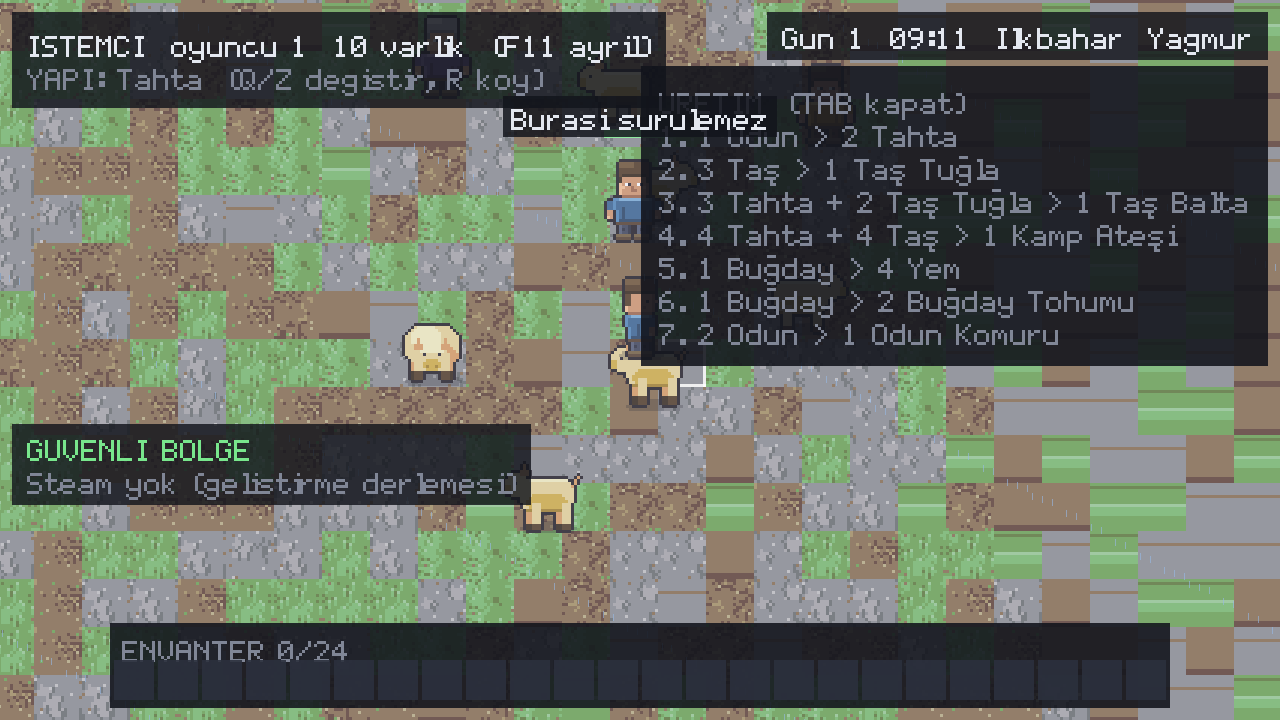
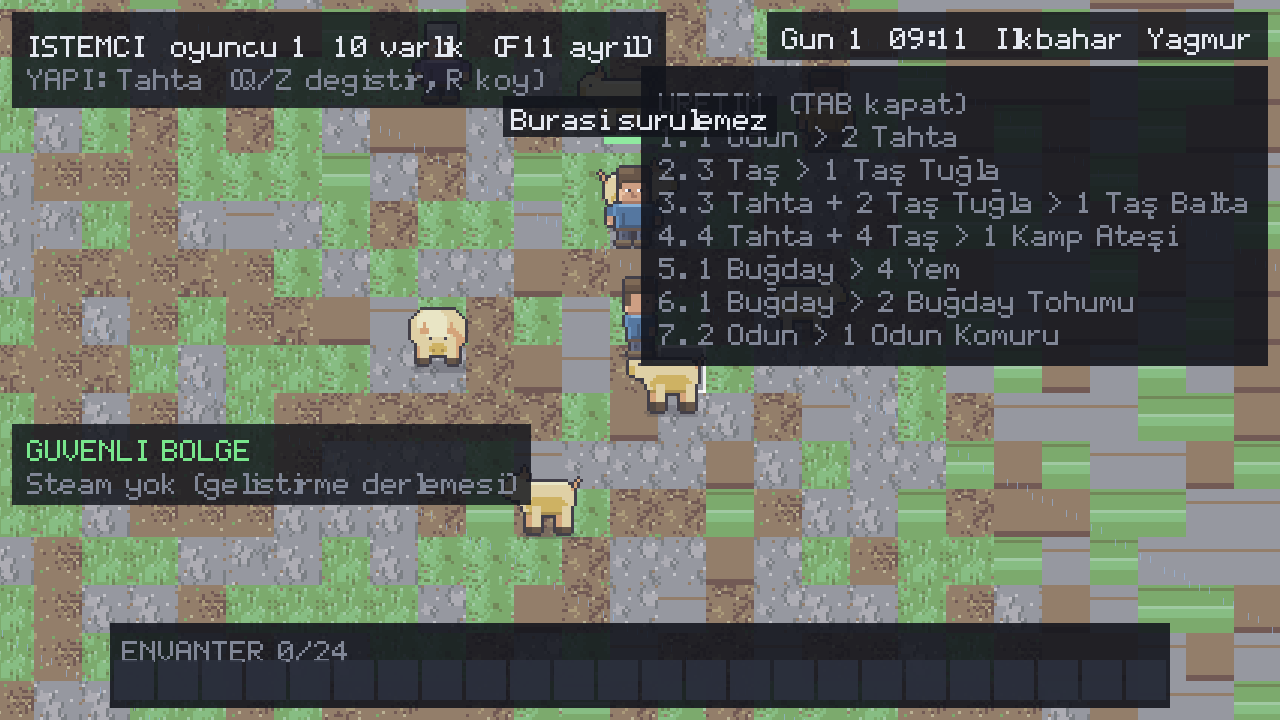
README: ozet ve bilinen bosluklar guncellendi
Alti maddenin tamamlanmasindan sonra kalan bosluklar kisaldi: inşa
istemcide, zindanlar ag oturumunda ve mod sprite/atlas bindirmesi.

Claude-Session: https://claude.ai/code/session_01LxZngLRm5wNdimyJDVh8n4

diff --git a/README.md b/README.md
@@ -26,9 +26,13 @@ tarım+balıkçılık, evcilleştirme/binek, düşman+boss rotasyonu, zindanlar,
 ticaret/görev, güvenli bölge/PvP + baskın, Steam envanteri ve Steam taşıma
 katmanı; katmanlı kozmetikler + nadirlik + sezonluk item, Steamworks
 (başarım/leaderboard/davet), klan + host otoriter takas, EN/TR dil desteği +
-erişilebilirlik, photo mode + emote + ping + yama notları, Workshop altyapısı.
+erişilebilirlik, photo mode + emote + ping + yama notları, Workshop altyapısı;
+kaydetme/yükleme, düşman yol bulma, varlık (düşman/yaratık) ağ
+senkronizasyonu, host otoriter tarım/evcilleştirme, veri adlarının
+çevrilmesi ve mod içerik bindirmesi.
 
-Henüz yok: varlık (yaratık/düşman/NPC) ağ senkronizasyonu.
+Kalan bilinen boşluklar kısa: Steam gerçek bir istemciye karşı denenmedi,
+inşa yalnızca host'ta çalışıyor ve zindanlar ağ oturumunda kapalı.
 Bkz. "Bilinen boşluklar".
 
 ## Kontroller
@@ -796,8 +800,14 @@ mod'un etkisinin ekrandaki kanıtı.
   geçti, `SteamRelease` CS0103 ile patladı). Ama derlenmek çalışmak değil:
   achievement'lar, leaderboard, davet, Workshop yükleme ve envanter
   çağrıları çalışan bir Steam istemcisine karşı hiç denenmedi.
+* **İnşa yalnızca host'ta çalışıyor**; istemci inşa edemiyor. Tarım ve
+  evcilleştirme host'a taşındı (`WorldAction`), inşa aynı yolu izleyecek.
 * **Zindanlar ağ oturumunda kapalı** — bilinçli bir kısıt, bkz. "Ağda ne
   otoriter, ne değil".
+* **Mod sprite/atlas bindirmesi yok.** Modlar PNG getirebiliyor ve parmak
+  izine katılıyor ama atlas birleştirme (yeni ikon, yeni tile) ayrı bir iş;
+  şu an bir mod yeni item eklerken mevcut bir ikon indeksini yeniden
+  kullanıyor.
 * Dünya saati ve hava **host otoriter** ve senkronize (saniyede bir `WorldTime`
   mesajı). Ekin büyümesi de otomatik olarak host'ta kalıyor.
 
